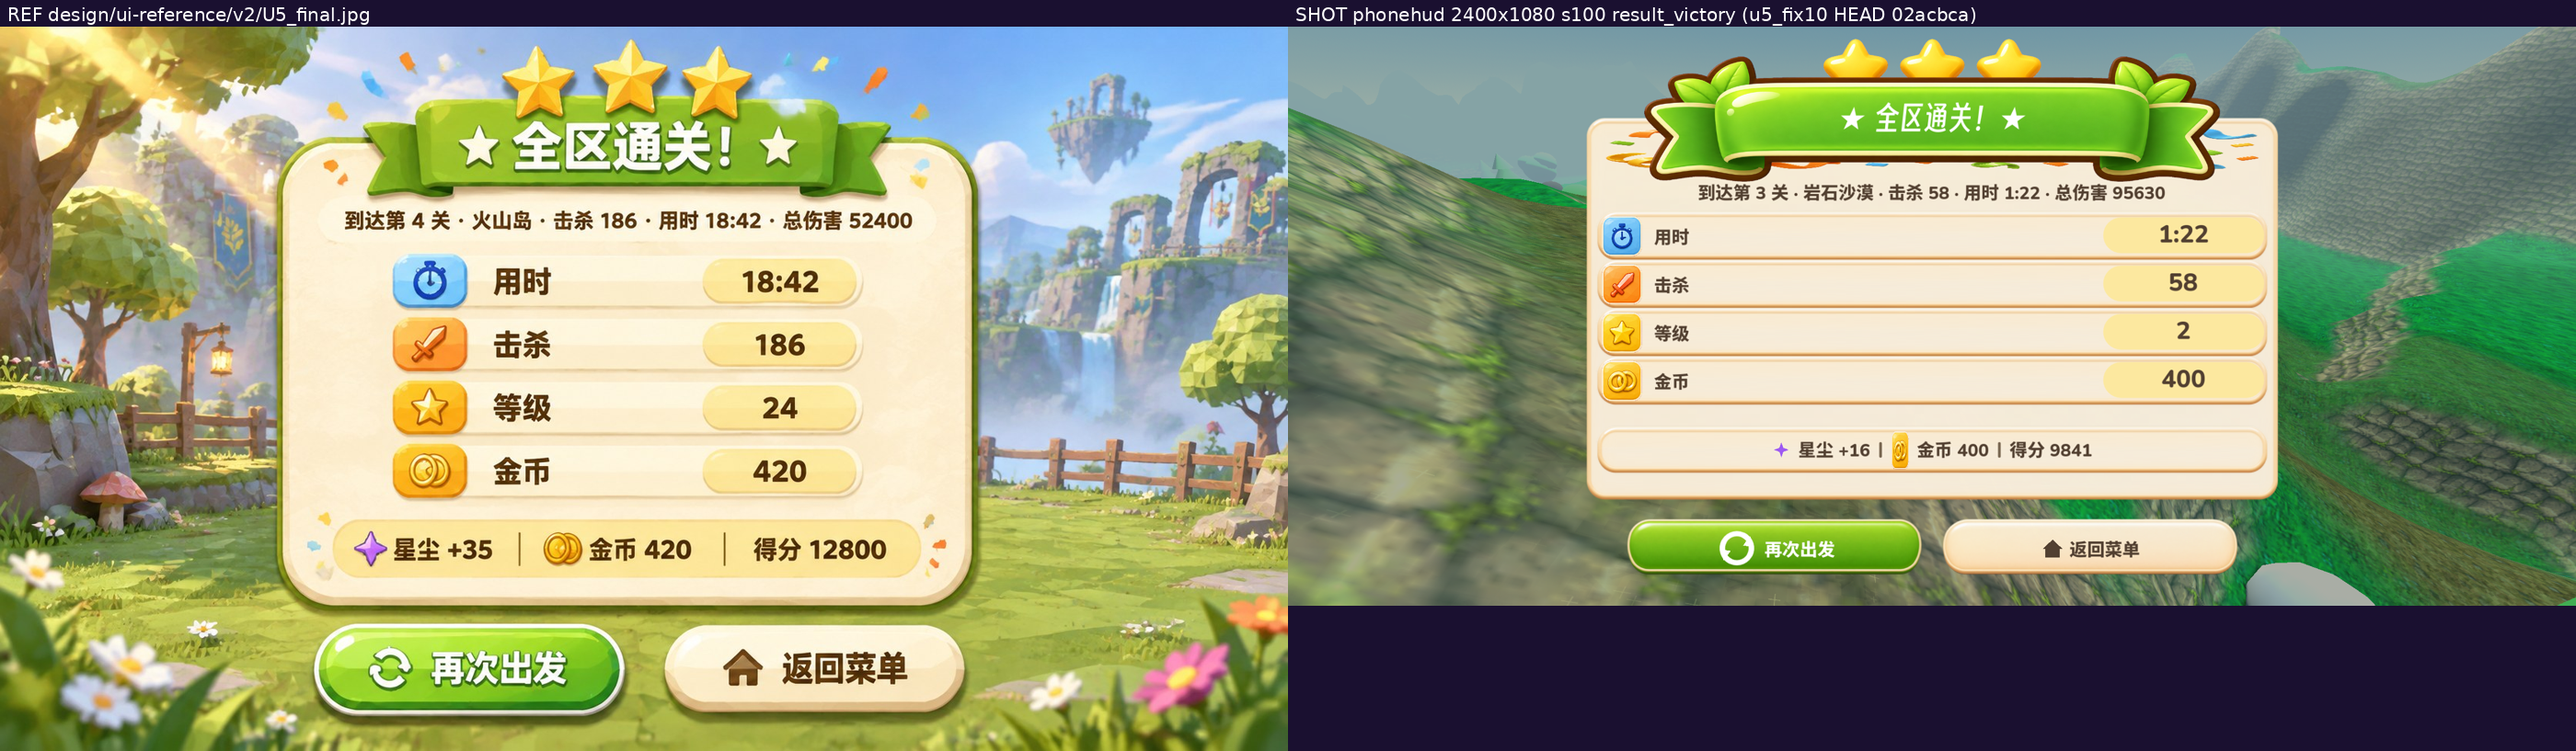
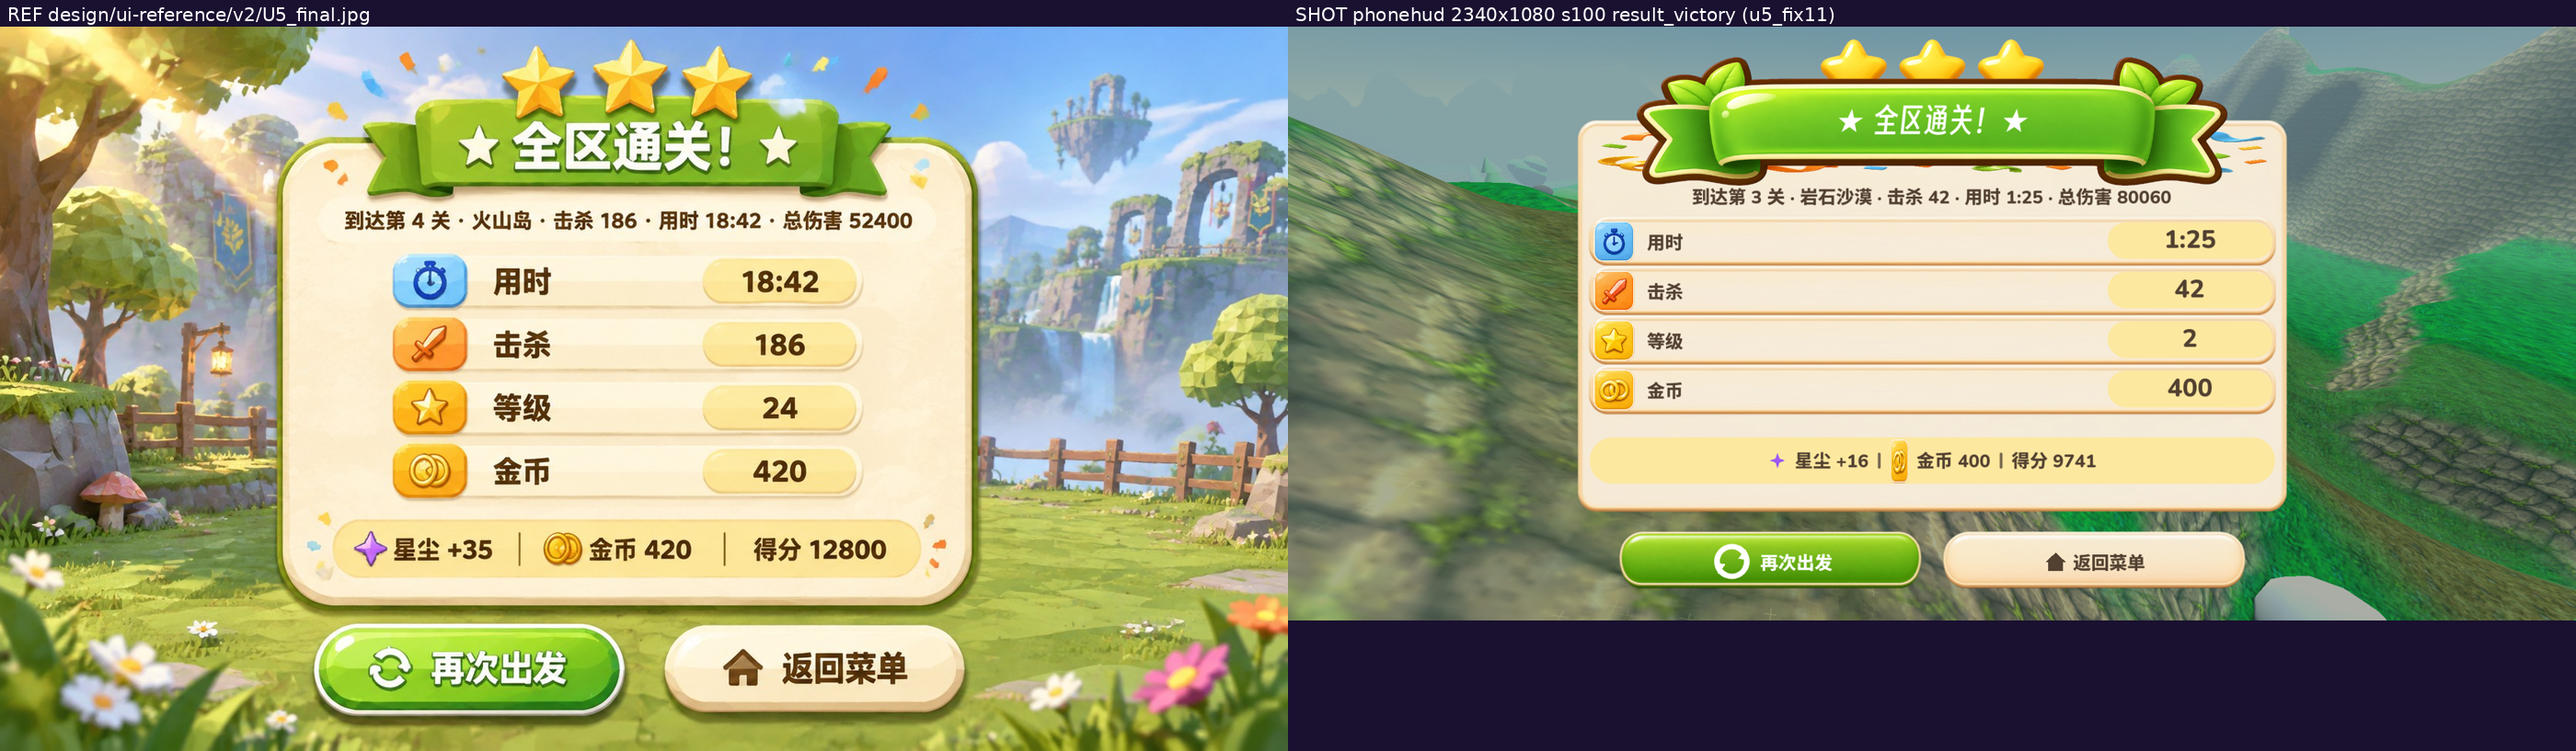
Ledger: U5 fix11 verdict (not closed - leaves in both legs, batch read pre-restore texture) + fix11b rerun; fix11 compares

diff --git a/design/ui-alignment-progress.md b/design/ui-alignment-progress.md
@@ -958,3 +958,21 @@ U1 已重开，U3 不得开工（见「关闭门」）。第 9 轮：2340 复验
 - 好消息（同张捕获证实代码侧完好）：汇总 pill 已呈金黄——金行 y 747..830（高 84，参考 ~84）、中心填色实测 (252,232,159) 与处方一致；值 pill 行中心仍为面板底色、未误染。说明进程启动时读入的代码（HEAD 2d1ad07）未受 sync 事故影响，fix11 代码项②已上屏。
 - 断点（裁定轮）：等 `Test/out/u5_fix11.done` ALLDONE 后，叶 verdict 只认 2340 档（新进程、12:11:46 后启动、磁盘纹理已恢复，必读 fix11 态）；取 2340 档 `mobile_p5_result_victory_2340x1080_s100_i0.png` 行列扫描复核叶区＋汇总 pill（高 ~84、底 ~832、填色 (252,232,159)）／值 pill／面板顶底／钮／折尾／摘要行间隙后重建 compare/U5.png 与 compare/U5_2400.png（Test/make_compare_u5.py）、逐项亲检再议 U5 签核；三处小残差（摘要行＋20px／面板底＋24px／空带＋12px）一并裁定是否进 fix12。**2400 档 compare 若仍见叶，不代表 fix11 未生效——须单重跑 2400 腿取干净捕获后再建 U5_2400.png**（是否重跑由裁定轮在 2340 叶确认后决定；重跑前须先确认磁盘纹理仍为 7b4c7732）。纹理收尾不变：裁定后把重生成的 `ribbon_green.png.import` 从 NUC 拉回与台账同批提交。Notion 对齐单未动（U5 未关闭）。
 - 本轮提交：本节台账。
+
+## U5 fix11 亲检裁定：未关闭，fix11b 重跑（2026-11-15 12:2x–12:4x 轮，主控亲检）
+
+- 验证批 `Test/u5_fix11_run.sh`（HEAD 2d1ad07）已 ALLDONE 12:25:30：2400 s100 **1564/0**、2340 s100 **1549/0**，双腿 rc=0。双档实拍已拉回本机逐字节核验（2400 md5 8fa7f14a…、2340 md5 053ec5a1…），compare 已重建（`design/ui-reference/compare/U5.png`、`U5_2400.png`）。
+- **未关闭：绿叶簇仍在——双档同现（主残差，fix11  headline 项未落地）**：3× 放大裁切实证（`.tmp/u5fix11/ribbon_2340_L.png`、`ribbon_2340_R.png`）＋行列扫描：缎带顶沿上方左右两端绿像素各 2,299／2,428（2400 与 2340 两档数完全相同）；参考缎带两端素面、无叶。12:11 轮「叶 verdict 只能认 2340 档」的判断**作废**——2340 腿同样读了旧纹理。
+- **根因（实证）**：磁盘纹理 `ribbon_green.png`（md5 7b4c7732、无叶）的 mtime 为 **12:13:59**——在 2400 腿导入（~11:58）与 2340 腿导入（~12:12）之后；两腿均读了事故回滚后的旧纹理。另：`.godot/imported/ribbon_green.png-8085d68b….ctex` 的 `.md5`  sidecar 仍记 `source_md5="bbda8f03…"`（原始含叶纹理，2026-11-12 建），即导入缓存亦为旧态。本轮已删该 `.ctex`＋`.md5`（`ls` 核验 0 残留），下批启动时必自当前磁盘文件重导入。
+- 其余项逐项复核（原始 PNG 行列扫描＋双档 compare 亲看；REF `design/ui-reference/v2/U5_final.jpg` 1672×941；纵向按 %H、横向按 %W）：
+  - ① 值 pill ✓：填色恰为 (252,232,159)、填高 66 屏 px（目标 ~63）、宽 ~300（目标 ~300）、数字字形 ~30。
+  - ② 汇总 pill 填色 ✓：恰为 (252,232,159) 扁平金黄、填高 83（目标 ~84）、填底 ~830（目标 ~822，差 8px）。
+  - ③ 缎带 ✓：主绿带 112..230、高 118（目标 ~119）、中心 ~171 压面板顶沿。
+  - ④ 行 ✓：pitch 90（参考 ~95 raw px≈8.77%H；实拍 8.33%H）、四行单栏、HUD 已藏。
+  - ⑤ 三星压缎带 ✓（目视；fix7 量测星底 116 vs 带顶 112）。
+  - ⑥ 钮 ✓：顶 ~923（85.5%H）、底 ~1010（93.5%H），双弧双箭头图标可辨。
+  - ⑦ 摘要行 ✓（位置）：字形顶 ~272（25.2%H）、参考 25.4%H；字色深棕。
+  - ⑧ 微残差（记入、不单独开 fix）：摘要行与折尾间隙仅 ~8px（折尾底 ~264、参考 ~230；摘要顶 272、参考 ~274）——折尾仍长约 30px，文字本身未压、位置已对；下批亲检时同法复核，确认是否须再剪纹理。
+- fix11b 处方（无代码改动、不动检查）：原样重跑验证批（`Test/u5_fix11b_run.sh`，.done `Test/out/u5_fix11b.done`），只测已落盘的无叶纹理是否真正上屏；重跑前已清导入缓存（见上）。亲检口径：叶 verdict 只认重跑后的双档新拍（缎带顶沿上方两端绿像素须归零＋3× 裁切目视无叶）；其余七项沿用本节量测。
+- 实施：compare 双档＋本节台账＋`Test/u5_fix11b_run.sh` 提交推送（`git ls-remote` 核验）；验证批于 12:4x detached 起跑（HEAD 与 2d1ad07 同树＋本节提交，双腿 2400 s100 → 2340 s100，预计约 13:25 完成）。`.import` 待重跑后 Godot 重生成时核验是否变化、有变则随裁定轮一并提交（第一单教训）。
+- 断点：下一轮先读 `Test/out/u5_fix11b.done`（两档绿、FAIL=0），取 `mobile_p5_result_victory_*_s100_i0.png` 双档新拍，行列扫描复核叶（两端顶沿上方绿像素归零）／值 pill／汇总 pill／缎带／行／星／摘要／钮后重建 compare、逐项亲检再议 U5 签核。Notion 对齐单未动（U5 未关闭）。
